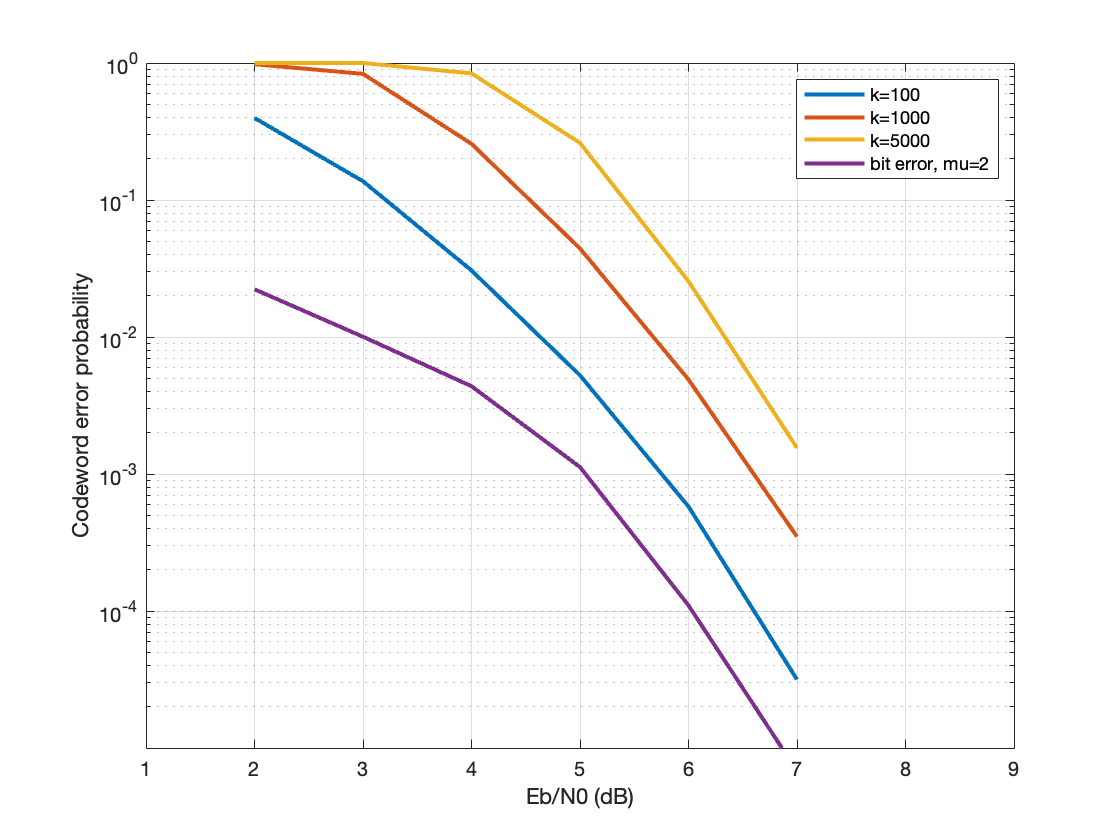
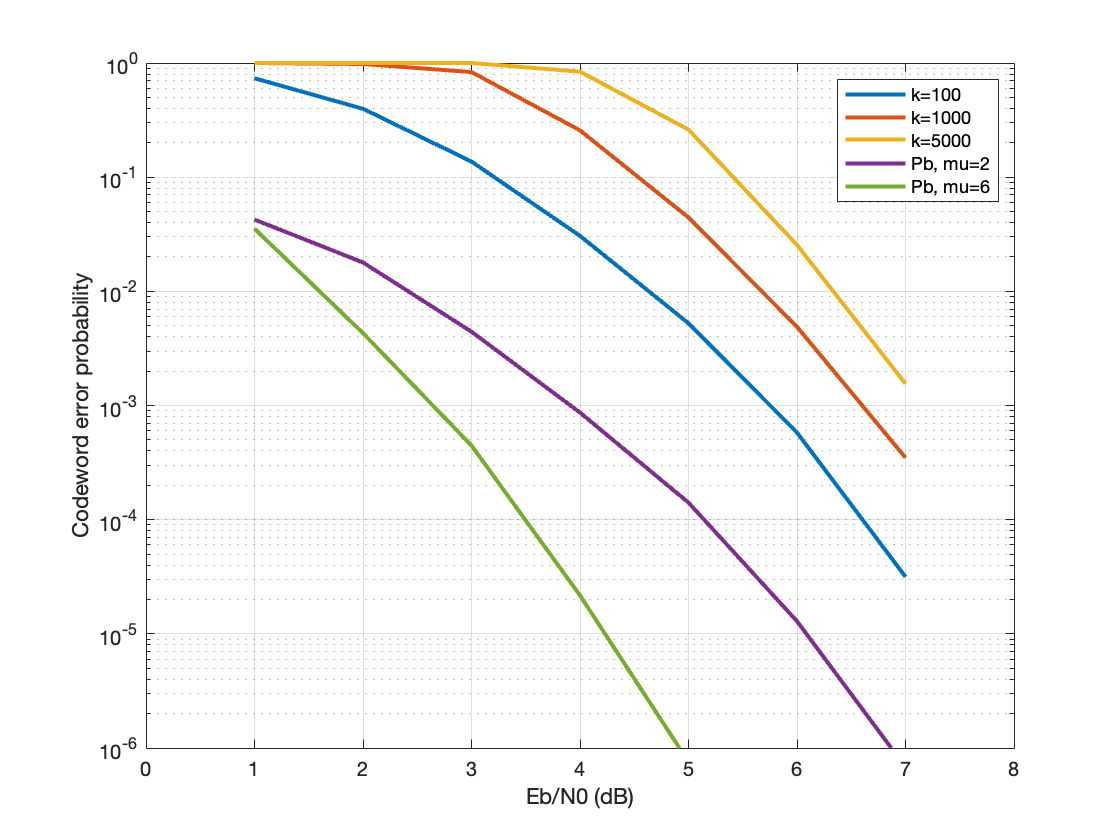
works for any memory size up to 11

diff --git a/convo_sim.c b/convo_sim.c
@@ -9,46 +9,53 @@
 #define demap(x) ( (x) > 0 ? 1 : 0 )
 int i;
 
-const int mu = 2; // memory of encoder
-const float R = (float) 1/mu; // code rate
-// generator polynomials for rate 1/2, mu = 2
-const uint8_t g1 = 0b111;
-const uint8_t g2 = 0b101;
+
 
 void awgn();
 void encoder();
 void decoder();
 
 // popcount utility for calculating xor
-uint8_t popcount8( uint8_t b )
-{
-     b = b - ((b >> 1) & 0x55);
-     b = (b & 0x33) + ((b >> 2) & 0x33);
-     return (((b + (b >> 4)) & 0x0F) * 0x01);
-}
+// uint8_t popcount8( uint8_t b )
+// {
+//      b = b - ((b >> 1) & 0x55);
+//      b = (b & 0x33) + ((b >> 2) & 0x33);
+//      return (((b + (b >> 4)) & 0x0F) * 0x01);
+// }
 
-uint8_t transition_codeword_pairs[1 << (mu + 2)];
 
 // looks like magic but i swear its legit
 // table stores codeword corresponding to state transitions
 // array indexes look like (current state)+(next state), + respresenting append
 // array entries are 3 bits; lower two are the codeword, 3rd bit is message bit
-void tr_cw_pairs() {
-    memset(transition_codeword_pairs, -1, 1 << (mu + 2));
+void tr_cw_pairs(transition_codeword_pairs, mu, g1, g2) 
+uint8_t transition_codeword_pairs[];
+int mu;
+uint32_t g1, g2;
+{
+    memset(transition_codeword_pairs, -1, 1 << (mu << 1));
     for (i = 0; i < 1 << mu; i++) {
-        uint8_t state1 = i << 1, state2 = (i << 1) | 0b1;
-        transition_codeword_pairs[(i << 2) | (state1 & 0b11)] = ((popcount8(state1 & g1) & 0b1) << 1) | (popcount8(state1 & g2) & 0b1);
-        transition_codeword_pairs[(i << 2) | (state2 & 0b11)] = ((popcount8(state2 & g1) & 0b1) << 1) | (popcount8(state2 & g2) & 0b1) | 0b100;
+        uint32_t state1 = i << 1, state2 = (i << 1) | 0b1;
+        uint16_t mask = ((1 << mu) - 1);
+        transition_codeword_pairs[(i << mu) | (state1 & mask)] = ((__builtin_popcount(state1 & g1) & 0b1) << 1) | (__builtin_popcount(state1 & g2) & 0b1);
+        transition_codeword_pairs[(i << mu) | (state2 & mask)] = ((__builtin_popcount(state2 & g1) & 0b1) << 1) | (__builtin_popcount(state2 & g2) & 0b1) | 0b100;
     }
 }
 
 int main(int argc, char* argv[]) {
-    if (argc != 3) {
+    if (argc != 5) {
         printf("Usage: \n");
         exit(1);
     }
     float SNRdb = atof(argv[1]);
     int k = atoi(argv[2]);
+
+    // generator polynomials for rate 1/2, mu = 2
+    // uint32_t g1 = atoi(argv[3]);
+    uint32_t g1 = strtoll(argv[3], NULL, 8);
+    uint32_t g2 = strtoll(argv[4], NULL, 8);
+    int mu = 31 - __builtin_clz(g1); // memory of encoder
+    const float R = 0.5; // code rate
     
     float EcNodB = SNRdb + 10*log10(R);  // general formula *if* there was coding
     float EcNo = pow(10.0, EcNodB/10.0);
@@ -58,40 +65,41 @@ int main(int argc, char* argv[]) {
     long blk_errs = 0, blk_errs_max = 100, blk_cnt = 0, bit_errs;
     float r[(k+mu)*2];
     // float r[8] = {-.7, -.5, -.8, -.6, -1.1, .4, .9, .8};
-    uint8_t m[k+mu], c[(k+mu)*2], y[k+mu+1];
+    uint8_t m[k+mu], c[(k+mu)*2];
+    uint32_t y[k+mu+1];
+    uint8_t transition_codeword_pairs[1 << (mu << 1)];
 
     srand(time(NULL));
-    tr_cw_pairs();
+    tr_cw_pairs(transition_codeword_pairs, mu, g1, g2);
 
     while (blk_errs < blk_errs_max) {
         blk_cnt++;
-
+        memset(m, 0, sizeof m);
         memset(y, 0, sizeof y);
 
         // get a block of data
         for(i=0; i<k; i++) m[i] = (rand()>>5) & 0b1;
-        for(i=k; i<k+mu; i++) m[i] = 0;
         
 
-        encoder(m, c, k+mu);
+        encoder(m, c, k+mu, transition_codeword_pairs, mu);
 
-        awgn(sigma, c, r, sizeof c);
+        awgn(sigma, c, r, 2*(k+mu));
         
         
         
-
-        // decode
-        decoder(r, y, k+mu);
-        
-        /* debug nonsense */
         // for (i = 0; i < k; i++) printf("%d", m[i]);
         // printf("\n");
         // for (i = 0; i < 2* (k+mu); i++) printf("%d", c[i]);
         // printf("\n");
+
+        // decode
+        decoder(r, y, k+mu, transition_codeword_pairs, mu);
+        
+        /* debug nonsense */
         // for (i = 0; i < 2* (k+mu); i++) printf("%f ", r[i]);
         // printf("\n");
         // for (i = 0; i < k; i++) printf("%d", y[i]);
-        // printf("\n\n");
+        // printf("\n");
 
         // exit(0);
 
@@ -107,13 +115,14 @@ int main(int argc, char* argv[]) {
 }
 
 // implements shift register encoder method
-void encoder(m, c, k) 
-uint8_t m[], c[];
-int k;
+void encoder(m, c, k, transition_codeword_pairs, mu) 
+uint8_t m[], c[], transition_codeword_pairs[];
+int k, mu;
 {
-    uint8_t state = 0;
+    uint32_t state = 0;
     for (i = 0; i < k; i++) {
-        uint8_t cw = transition_codeword_pairs[((state & 0b11) << 2) | (((state << 1) | m[i]) & 0b11)] & 3;
+        uint16_t mask = ((1 << mu) - 1);
+        uint8_t cw = transition_codeword_pairs[((state & mask) << mu) | (((state << 1) | m[i]) & mask)] & 0b11; 
         c[2*i] = cw >> 1;
         c[2*i + 1] = cw & 0b1;
         state <<= 1;
@@ -124,13 +133,14 @@ int k;
 /* this ones a doozy
  * viterbi traceback decoder for ZTCC
 */
-void decoder(r, y, k) 
+void decoder(r, y, k, transition_codeword_pairs, mu) 
 float r[];
-uint8_t y[];
-int k;
+uint32_t y[];
+uint8_t transition_codeword_pairs[];
+int k, mu;
 {
     float gamma[1 << mu][k+1]; // cunulative metric
-    uint8_t h[1 << mu][k+1]; // state history
+    uint32_t h[1 << mu][k+1]; // state history
 
     // prepare arrays
     memset(h, 0, sizeof h);
@@ -140,7 +150,8 @@ int k;
     // prepare some variables
     float r1, r2;
     int j;
-    uint8_t s1, s2, c1, c2;
+    uint32_t s1, s2;
+    uint8_t c1, c2;
     float test1, test2;
 
     // for each trellis stage
@@ -151,11 +162,11 @@ int k;
         // for each possible encoder state
         for (j = 0; j < 1 << mu; j++) {
             // get S(s), i.e. possible previous states
-            if (j & 0b10) s1 = 1, s2 = 3;
-            else s1 = 0, s2 = 2;
+            s1 = (j >> 1) | (1 << (mu-1));
+            s2 = j >> 1;
             // codeword is lower 2 bits of table entry
-            c1 = transition_codeword_pairs[(s1 << 2) | j] & 3;
-            c2 = transition_codeword_pairs[(s2 << 2) | j] & 3;
+            c1 = transition_codeword_pairs[(s1 << mu) | j] & 0b11;
+            c2 = transition_codeword_pairs[(s2 << mu) | j] & 0b11;
             // calculate cumulative metric for each possible state
             test1 = gamma[s1][i-1] + r1 * map(c1 >> 1) + r2 * map(c1 & 0b1);
             test2 = gamma[s2][i-1] + r1 * map(c2 >> 1) + r2 * map(c2 & 0b1);
@@ -167,6 +178,7 @@ int k;
                 gamma[j][i] = test2;
                 h[j][i] = s2;
             }
+
         }
     }  
 
@@ -198,15 +210,14 @@ int k;
     // } printf("\n");
 
     // slightly messy, fills result array with state transitions
-    uint8_t c;
     for (int l = k; l > 0; l--) {
-        c = h[y[l]][l];
-        y[l-1] = c;
-    }
+        y[l-1] = h[y[l]][l];
+    } 
+    // printf("\n"); exit(0);
     // converts state transitions to original message bit
     // separate loops for clarity, can be consolidated for performance
     for (int l = 0; l < k; l++) {
-        y[l] = transition_codeword_pairs[y[l] << 2 | y[l+1]] >> 2;
+        y[l] = transition_codeword_pairs[y[l] << mu | y[l+1]] >> 2;
     }
 }
 

diff --git a/conv_plot.m b/conv_plot.m
@@ -1,25 +1,21 @@
-x = 2:7;
-y_100 = [3.97e-1 1.37e-1 3.06e-2 5.25e-3 5.79e-4 3.16e-5];
-y_1000 = [9.8e-1 8.33e-1 2.57e-1 4.43e-02 4.89e-03 3.49e-04];
-y_5000 = [1 1 8.40e-01 2.61e-01 2.55e-02 1.55e-03];
+x = 1:7;
+y_100 = [7.35e-01 3.97e-1 1.37e-1 3.06e-2 5.25e-3 5.79e-4 3.16e-5];
+y_1000 = [1 9.8e-1 8.33e-1 2.57e-1 4.43e-02 4.89e-03 3.49e-04];
+y_5000 = [1 1 1 8.40e-01 2.61e-01 2.55e-02 1.55e-03];
 
-pb1 = [1.79e-02 4.43e-03 8.67e-04 1.41e-04 1.29e-05 6.80e-07];
-pb2 = [2.37e-02 1.18e-02 3.18e-03 5.19e-04 5.58e-05 3.91e-06];
-pb3 = [2.53e-02 1.39e-02 9.07e-03 2.71e-03 2.61e-04 1.58e-05];
-A = zeros(6, 3);
-A(:,1) = pb1;
-A(:,2) = pb2;
-A(:,3) = pb3;
-pb = mean(A, 2);
+pb_2 = [4.25e-02 1.79e-02 4.43e-03 8.67e-04 1.41e-04 1.29e-05 6.80e-07];
+
+pb_6 = [3.54e-02 4.3e-03 4.46e-04 2.17e-05 7.56e-07];
 
 semilogy(x, y_100,'LineWidth',2), grid, hold on
 % semilogy(x, y_ht,'LineWidth',2)
 semilogy(x, y_1000,'LineWidth',2)
 % semilogy(x, y_st,'LineWidth',2)
 semilogy(x, y_5000,'LineWidth',2)
-semilogy(x, pb,'LineWidth',2)
+semilogy(x, pb_2,'LineWidth',2)
+semilogy(1:5, pb_6,'LineWidth',2)
 xlim([1 9])
 xlabel('Eb/N0 (dB)')
 ylabel('Codeword error probability')
-legend('k=100', 'k=1000', 'k=5000', 'bit error, mu=2')
-axis([1 9 1e-5 1])
+legend('k=100', 'k=1000', 'k=5000', 'Pb, mu=2', 'Pb, mu=6')
+axis([0 8 1e-6 1])
